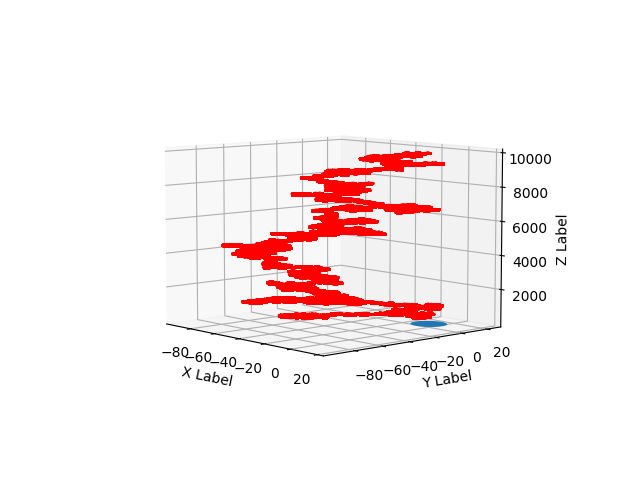
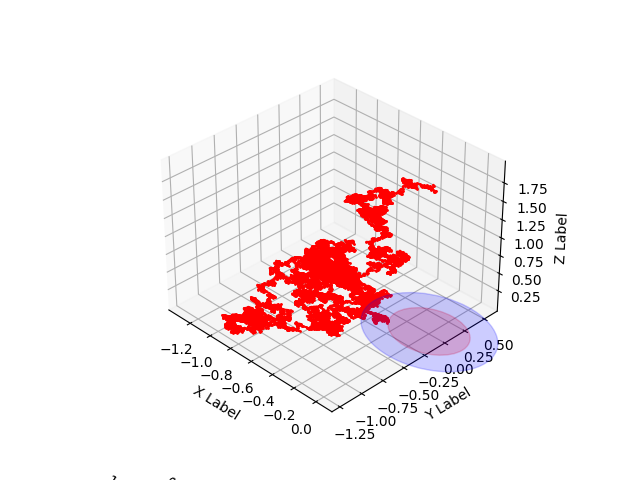
First commit

Changed region(s): [[0.25, 0.1875, 0.9062, 0.9062]]

diff --git a/NanoFluidics_Project/langevin_equation.py b/NanoFluidics_Project/langevin_equation.py
@@ -5,8 +5,7 @@ import matplotlib.patches as patches
 from matplotlib.patches import Circle, PathPatch
 import mpl_toolkits.mplot3d.art3d as art3d
 
-#Initial conditions
-#All units will be in atomic units
+#All values are in SI units
 
 class Physical_System: 
     def __init__(self, dt, gamma, particle_radius, pore_radius, z,  pore_position, D, electric_field = None, applied_potential = None):
@@ -21,15 +20,8 @@ class Physical_System:
         if electric_field.any():
             self.electric_field = electric_field
         #to not forget to add the case when we have electric field
-
-pos = np.array([10.0, 0, 0]) #Initial coordinates of the particle 
-R = np.linalg.norm(pos) #Distance to the center of coordinates
-#applied_potential = np.array([1.4, 0, 0]) #Applied electric potential 
-#electric_field = applied_potential/R #Electric field 
-#particle_radius = 1 #Radius of the particle
-#D = 1 #Diffusion coefficient
-
-def solve_langevin(x, z, E, gamma, D, dt, e = 1.0):
+        
+def solve_langevin(x, z, E, gamma, D, dt, e = 1.6021766e-19):
     x_new = x + e*z*E*dt/gamma + np.sqrt(2*D*dt)*np.random.normal(0,1)
     return x_new
 
@@ -45,41 +37,51 @@ def run_simulation(object, pos):
     z_array = []
     while (z > object.particle_radius) or (np.sqrt(x**2 + y**2) > object.pore_radius - 2*object.particle_radius):
         t += object.dt
-        print(x, y, z)
         x = solve_langevin(x, object.z, E_x, object.gamma, object.D, object.dt, object.e)
         y = solve_langevin(y, object.z, E_y, object.gamma, object.D, object.dt, object.e)
         z = solve_langevin(z, object.z, E_z, object.gamma, object.D, object.dt, object.e)
+        
         if z < object.particle_radius and np.sqrt(x**2 + y**2) < object.pore_radius - 2*object.particle_radius:
             break
         elif z < 0:
             z = -z
-        print(x, y, z)
+        print(f"x={x*1e+9}nm, y={y*1e+9}nm, z={z*1e+9}nm")
         x_array.append(x)
         y_array.append(y)
         z_array.append(z)
-        if t > 10000:
+        if t > 1e-7:
             break
     
     print(f"t is {t}")
-    print(f"Final position is {x, y, z}")
+    print(f"Final position is {x*1e+9, y*1e+9, z*1e+9}")
+    print(f"Pore Radius is {object.pore_radius*1e+9}nm")
+    print(f"Particle Radius is {object.particle_radius*1e+9}nm")
+    print(f"Effective Radius of Pore is {(object.pore_radius - 2*object.particle_radius)*1e+9}nm")
 
-    circe_radius = object.pore_radius
-    circle_center = (0, 0, 0)
     fig = plt.figure()
     ax = fig.add_subplot(111, projection='3d')
     ax.plot(x_array, y_array, z_array, c = 'r', marker = 'o', markersize = 1)
     ax.set_xlabel('X Label')
     ax.set_ylabel('Y Label')
     ax.set_zlabel('Z Label')
-    p = Circle((0, 0), 10)
+    p = Circle((0, 0), object.pore_radius, color='b', alpha=0.2)
+    p1 = Circle((0, 0), object.pore_radius - 2*object.particle_radius, color='r', alpha=0.2)
     ax.add_patch(p)
+    ax.add_patch(p1)
     art3d.pathpatch_2d_to_3d(p, z=0, zdir="z")
+    art3d.pathpatch_2d_to_3d(p1, z=0, zdir="z")
 
     plt.show()
     return 
  
 #def __init__(self, dt, gamma, particle_radius, pore_radius, z,  pore_position, D, electric_field = None, applied_potential = None)
 
-system_one = Physical_System(0.01, 1, 1, 100, 1, 0, 1, np.array([0, 0, -1.4]))
-pos = np.array([0.0, 0, 10000.0]) #Initial coordinates of the particle
+"""
+Diffusion coefficient of proton in water is 
+9.31e-9 m^2/s
+gamma = 6*pi*eta*a
+gamma = 6*pi*1*10^(-3)Pa*s * 1*10^(-10)m = 1.88*10^(-12) kg/s
+"""
+system_one = Physical_System(dt = 1e-12, gamma = 1.88e-12, particle_radius = 1*1e-9, pore_radius = 5*1e-9, z = 1.0, pore_position = 0.0, D = 7e-9, electric_field = np.array([0.0, 0.0, -1.4 * 1e-10]))
+pos = np.array([0.0, 0, 1000e-9]) #Initial coordinates of the particle
 run_simulation(system_one, pos)
